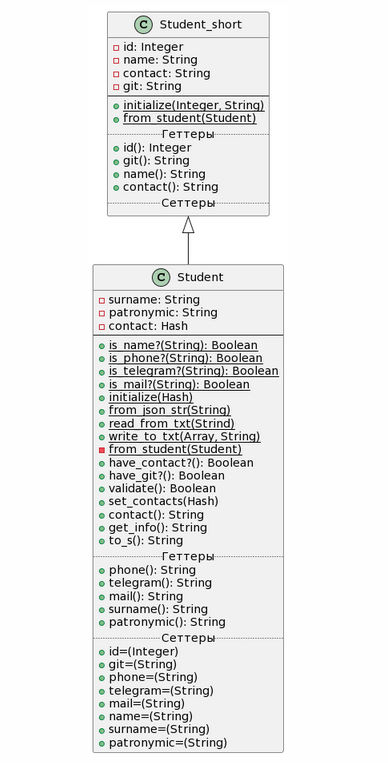
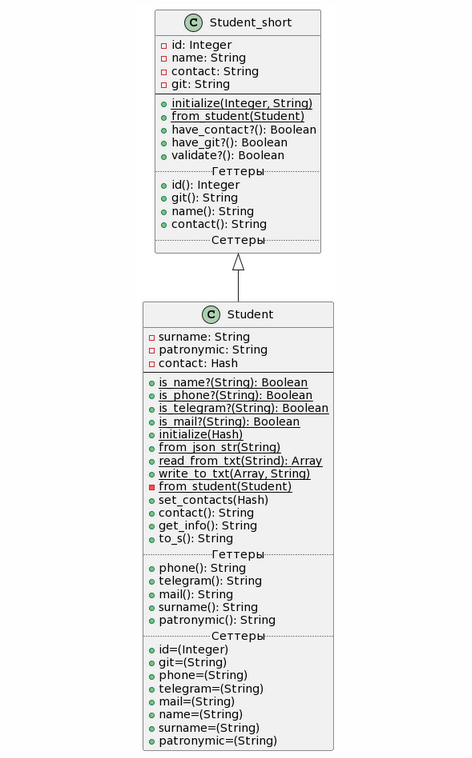
поправил диаграмму, перенес validate в student_short

diff --git a/Lab2/task1/Student.rb b/Lab2/task1/Student.rb
@@ -135,18 +135,6 @@ class Student < Student_short
   end
 
   #validation of data
-  def validate?
-    have_git? and have_contact?
-  end
-
-  def have_git?
-    !self.git.nil?
-  end
-
-  def have_contact?
-    !(self.contact.size == 0)
-  end
-
   def self.is_name?(name)
     raise ArgumentError, "arg '#{name}' is not string" unless name.class == String
     return true if name=~/^[А-Яа-я]+$/

diff --git a/Lab2/task1/Student_short.rb b/Lab2/task1/Student_short.rb
@@ -18,5 +18,18 @@ class Student_short
   def self.from_student(student)
     new(student.id, student.get_info)
   end
+
+  def validate?
+    have_git? and have_contact?
+  end
+
+  def have_git?
+    !self.git.nil?
+  end
+
+  def have_contact?
+    !self.contact.nil?
+  end
+
 end
 
